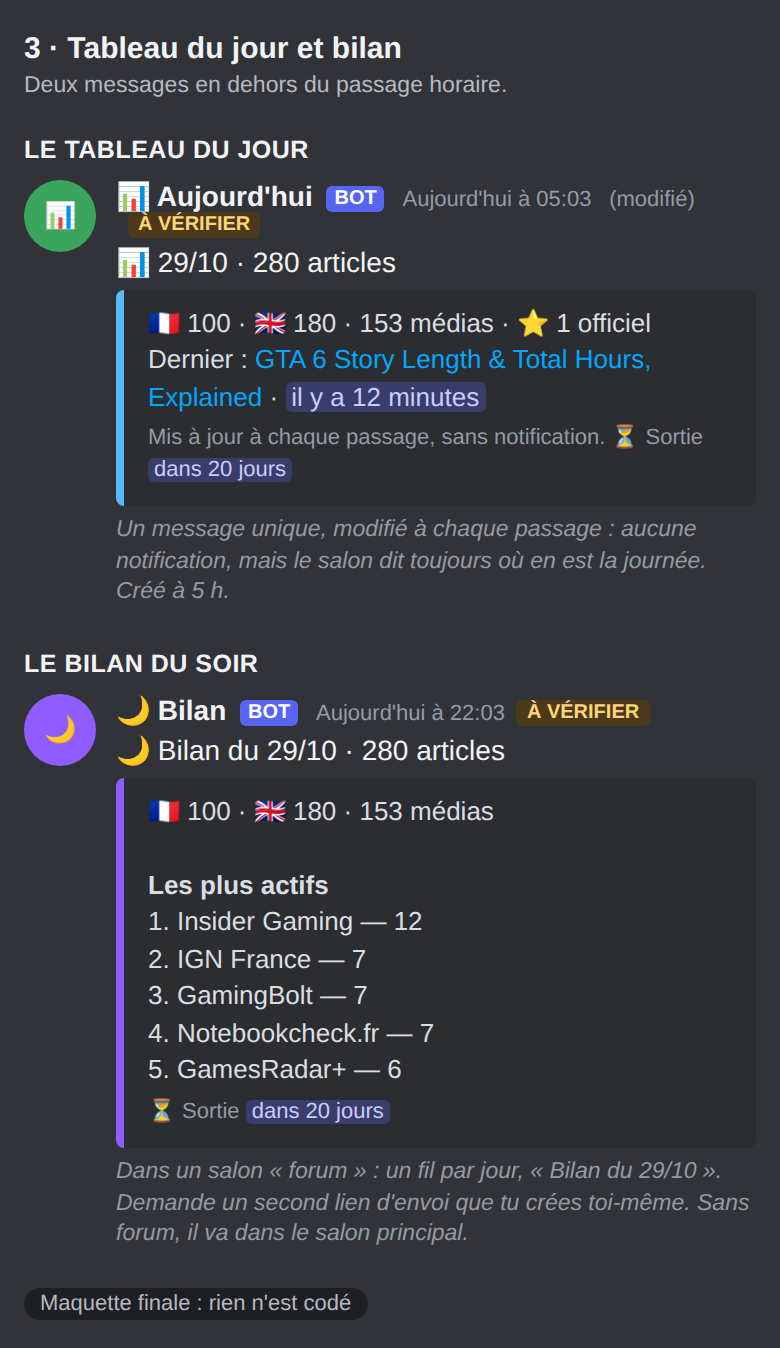
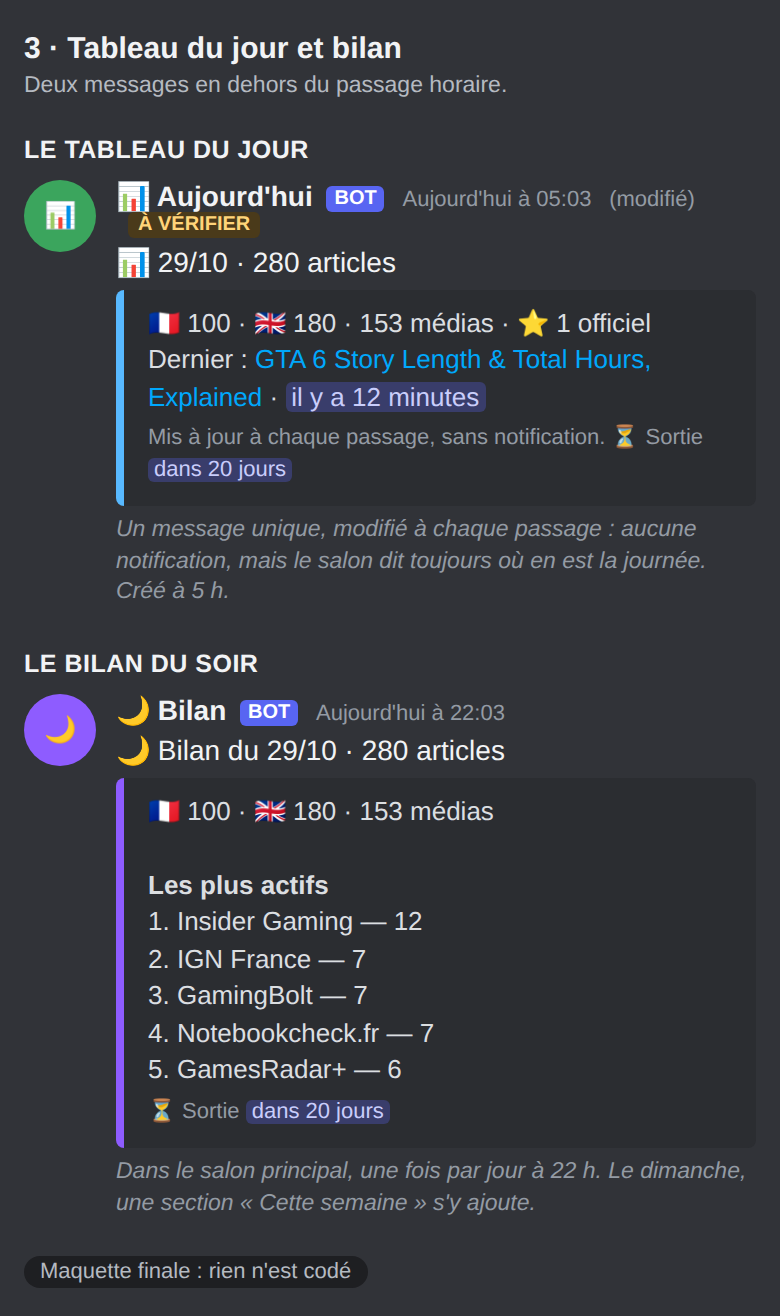
Spec Discord : fil de forum abandonné, vérification par trois messages TEST
Décisions d'Antoni : le bilan du soir reste dans le salon principal ; les boutons-liens, la
modification en place et la balise de temps se vérifient par trois messages marqués TEST dans le
salon principal, déclenchés par lui ; premier lot de code = mesures, puis jalons et alerte de
report (J-14 tombe le 05/11).

Claude-Session: https://claude.ai/code/session_01DqaCi1a9z33GCLfRvxZycB

diff --git a/tasks/spec-discord-notification.md b/tasks/spec-discord-notification.md
@@ -33,14 +33,14 @@ Visuels, dans `tasks/visuels-discord/` :
 | Rythme | **Un message par heure**, comme aujourd'hui (environ 16 par jour de 6 h à 21 h). |
 | Salon | **Un seul salon.** |
 | Silence | **Rien n'est silencieux** : tout notifie normalement. |
-| Boutons | Boutons-liens sous le message, **à vérifier** (je ne sais pas si un lien d'envoi sans bot peut en porter). |
+| Boutons | Boutons-liens sous le message, **à vérifier** (je ne sais pas si un lien d'envoi sans bot peut en porter). **Vérification : trois messages marqués TEST dans ton salon principal**, déclenchés par toi (voir « Vérifier avant de coder »). |
 | Tableau du jour | Un message **modifié en place** à chaque passage, sans notification, créé à 5 h. |
-| Bilan du soir | 22 h, **avant et après la sortie**, de préférence dans un **fil de forum** (second lien d'envoi à créer par toi) ; sinon le salon principal. |
+| Bilan du soir | 22 h, **avant et après la sortie**, **dans le salon principal** (le fil de forum est abandonné, décision du 29/10). Le dimanche, une section « Cette semaine ». |
 | Actu majeure | **Inchangée** (rouge, pas de médias nommés) ; on **mesure d'abord les médias distincts**. |
 | Officiels | Type de contenu, heure de publication ; **annonces d'abord, boutique ensuite** ; la boutique garde la catégorie « officiel » ; fusion EN/FR avec **titre en français** ; retard mesuré, relu après **10 alertes**. |
 | RockstarMag | **Une section**, 🎬 pour les vidéos, extrait du résumé, silence la nuit, reste après la sortie, couleur de l'accent de l'app. |
 | Push | Même vocabulaire que Discord quand il sera retenté. Il reste éteint. |
-| Écarté | Mention `@` qui sonne ; salons séparés ; regroupement des récapitulatifs ; message silencieux ; toute image ; rappel d'agenda ; plus de lignes ; passage plus fréquent sur les flux officiels. |
+| Écarté | Fil de forum pour le bilan ; mention `@` qui sonne ; salons séparés ; regroupement des récapitulatifs ; message silencieux ; toute image ; rappel d'agenda ; plus de lignes ; passage plus fréquent sur les flux officiels. |
 
 ## État actuel, mesuré (29/10/2026)
 
@@ -174,9 +174,7 @@ médias distincts, cinq médias les plus actifs (comptés sur le **média du tit
 **Le dimanche**, le message gagne une section « 📅 Cette semaine » (total de la semaine, sujets les plus couverts, nombre d'annonces officielles) : pas de message de plus.
 
 `bilan_envoye_le` dans `feed.json` interdit un second envoi (une relance à 22 h 30 ne le renvoie pas).
-Il tient avant la pause nocturne et **continue après la sortie**. Il est publié dans un **salon « forum »**
-(un fil « Bilan du 29/10 » par jour, historique recherchable) avec un **second lien d'envoi**, secret
-GitHub que **tu** crées (`DISCORD_BILAN_WEBHOOK_URL`) ; sans lui, il va dans le salon principal.
+Il tient avant la pause nocturne et **continue après la sortie**. Il est publié dans le **salon principal** : le fil de forum est abandonné (décision d'Antoni).
 
 ## 10 · Les jalons du compte à rebours
 
@@ -242,14 +240,23 @@ Les quatre images `quand-*.png` montrent une journée type (articles par heure),
 l'autour de la sortie : pause nocturne levée du 18 au 20/11 inclus, message du passage silencieux après le
 19/11 00:00 sauf annonce officielle, actu majeure ou RockstarMag, bilan du soir qui continue.
 
+## Vérifier avant de coder
+
+Trois points sont à vérifier avec le vrai lien d'envoi : les **boutons-liens**, la **modification d'un
+message** et la **balise de temps relatif**. Décision d'Antoni : **directement dans le salon principal,
+trois messages marqués « TEST »**, déclenchés par lui. Un workflow à part (`test-discord.yml`,
+`workflow_dispatch`, `contents: read`, comme `test-push.yml`) envoie : (1) un message avec deux
+boutons-liens ; (2) un message puis sa modification ; (3) un message avec la balise de sortie. Il
+écrit dans le journal public **ce que Discord a répondu**, jamais le lien d'envoi. **Rien n'est envoyé
+sans son « go ».** Le résultat décide du repli (lien texte, nouveau message).
+
 ## Risques et ce que je ne sais pas
 
 - **Boutons-liens** : à vérifier ; repli sur le lien texte.
 - **Un compte à rebours qui dit « dans 20 jours » alors que l'app dit « J-21 »** : Discord compte une durée
   (20 j 4 h), l'app des jours civils. Les deux sont justes et ne coïncident pas ; choix d'Antoni : le
   compte vivant seul. Les jalons J-14 à J-1 sont, eux, en jours civils, comme l'app.
-- **Modification en place et fil de forum** : je connais ces fonctions de Discord mais ne les ai pas vues
-  marcher avec ce lien d'envoi : un premier envoi réel les confirmera, avec un repli prévu pour chacune.
+- **Modification en place** : je connais cette fonction de Discord mais ne l'ai pas vue marcher avec ce lien d'envoi : un envoi de test la confirmera, avec un repli prévu (un nouveau message).
 - **La ligne d'aperçu** : si Discord affiche déjà le titre de la première carte, elle sera redondante.
 - **6 000 caractères** : voir le garde-fou. **Douze messages au maximum** de Discord par minute pour un lien
   d'envoi : sans objet à notre rythme.
@@ -266,9 +273,10 @@ Un lot par PR, chacun avec ses contrôles et sa preuve d'échec, après ton « g
    temps relatifs, règles de nuit et d'après-sortie.
 3. **Le détail des officiels** : type, heure, ordre, fusion EN/FR, plafond.
 4. **La section RockstarMag** : extrait, 🎬, repère des liens envoyés.
-5. **Le tableau du jour**, puis **le bilan du soir** (avec son fil).
-6. **Les jalons** (10) et **l'alerte de report** (11) : peu de code, peu de volume ; à prévoir **avant le 05/11** (J-14).
-7. **Les boutons-liens**, une fois vérifiés.
+5. **Le tableau du jour**, puis **le bilan du soir**.
+6. **Le workflow de vérification (TEST)**, avant le tableau du jour et les boutons.
+7. **Les jalons** (10) et **l'alerte de report** (11) : peu de code, peu de volume ; à prévoir **avant le 05/11** (J-14).
+8. **Les boutons-liens**, une fois vérifiés.
 
 ## Contrôles prévus (chacun prouvé capable d'échouer contre l'ancien code)
 
@@ -294,5 +302,4 @@ Un lot par PR, chacun avec ses contrôles et sa preuve d'échec, après ton « g
   testées des deux côtés du changement d'heure.
 - Jalons : chaque jalon une seule fois, même relancé ; heure de Paris et passage à l'heure d'hiver ; jalon manqué de plus de 90 minutes non envoyé, sauf « sorti » ; « sorti » envoyé même tard.
 - Report : un titre officiel avec un motif part en 🚨 ; le même titre non officiel ne déclenche rien ; « reports results » ne déclenche rien ; part aussi la nuit.
-- Dans tous les cas : aucun secret ni URL de webhook dans un journal ; `DISCORD_WEBHOOK_URL` et
-  `DISCORD_BILAN_WEBHOOK_URL` restent dans les secrets GitHub ; aucun nom de modèle.
+- Dans tous les cas : aucun secret ni URL de webhook dans un journal ; `DISCORD_WEBHOOK_URL` reste dans les secrets GitHub ; aucun nom de modèle.

diff --git a/RESTE-A-FAIRE.md b/RESTE-A-FAIRE.md
@@ -1887,3 +1887,8 @@ seul, **jalons** (J-14, J-7, J-3, J-1, H-12, H-1, « GTA VI est sorti »), bilan
 du dimanche, **alerte de report limitée aux officiels** (0 faux positif sur 85 officiels). **À prévoir
 avant le 05/11** pour le jalon J-14 : le lot « jalons et report ». Rien n'est codé.
 
+Décisions d'Antoni du 29/10/2026 (au soir) : fusion de la spec #222 ; premier lot = **mesures, puis
+jalons et alerte de report** (J-14 tombe le 05/11) ; vérification des fonctions Discord incertaines
+par **trois messages marqués TEST dans le salon principal**, déclenchés par lui ; **fil de forum
+abandonné** (le bilan reste dans le salon principal).
+
